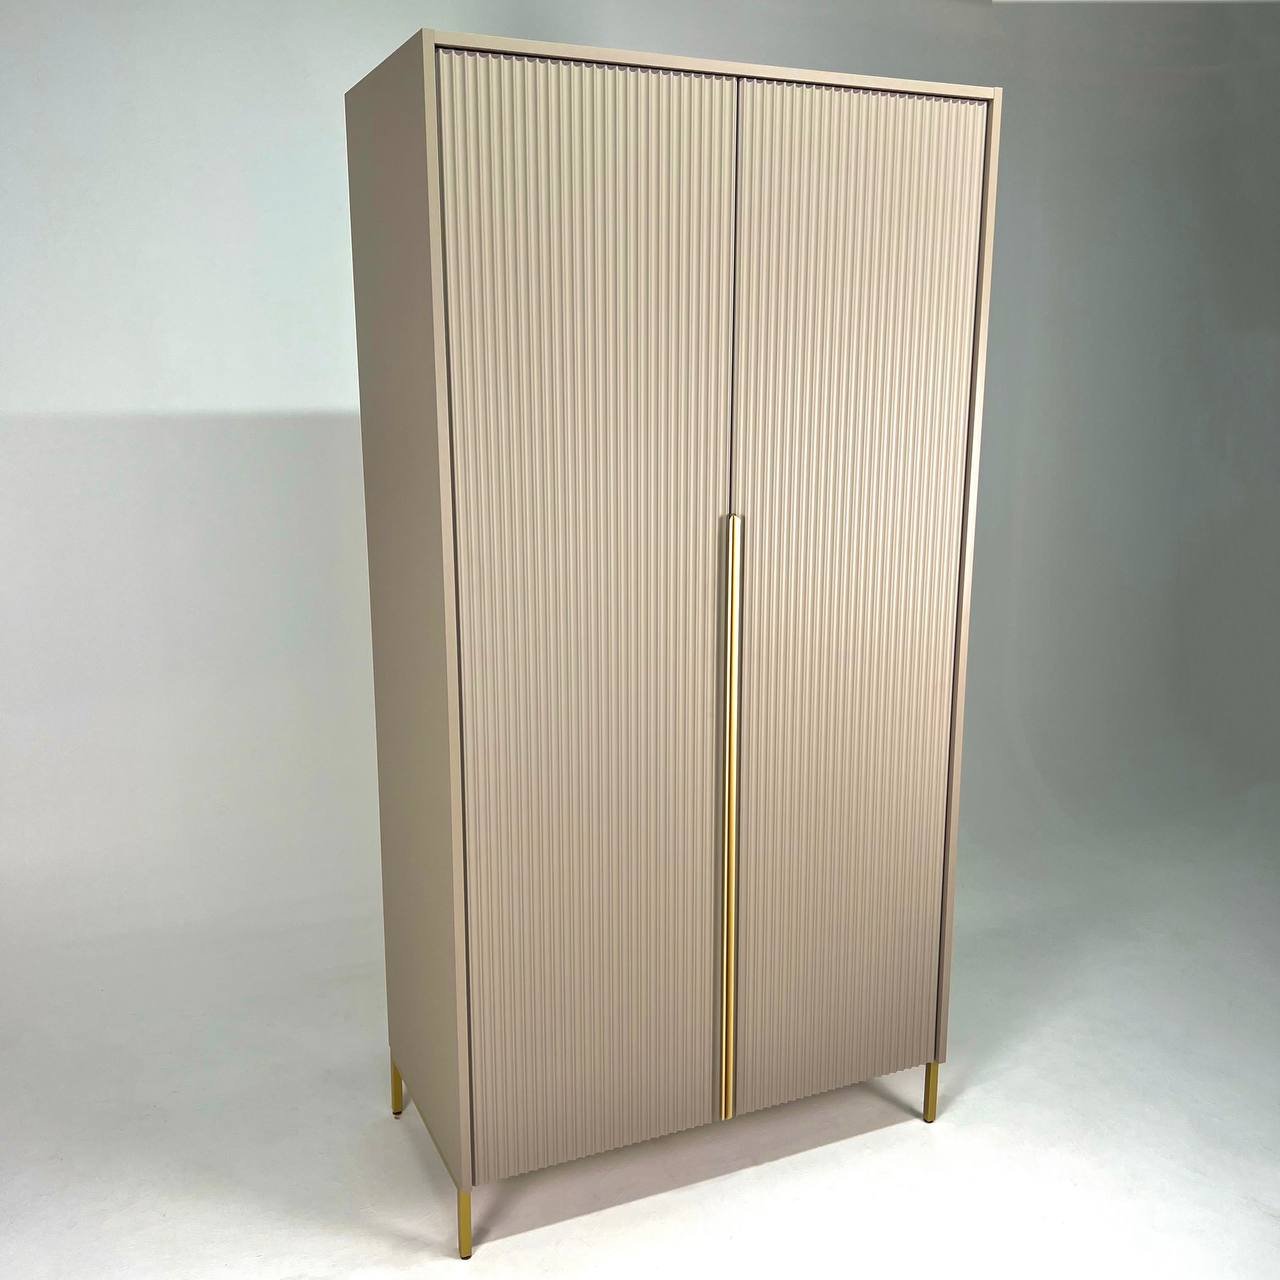
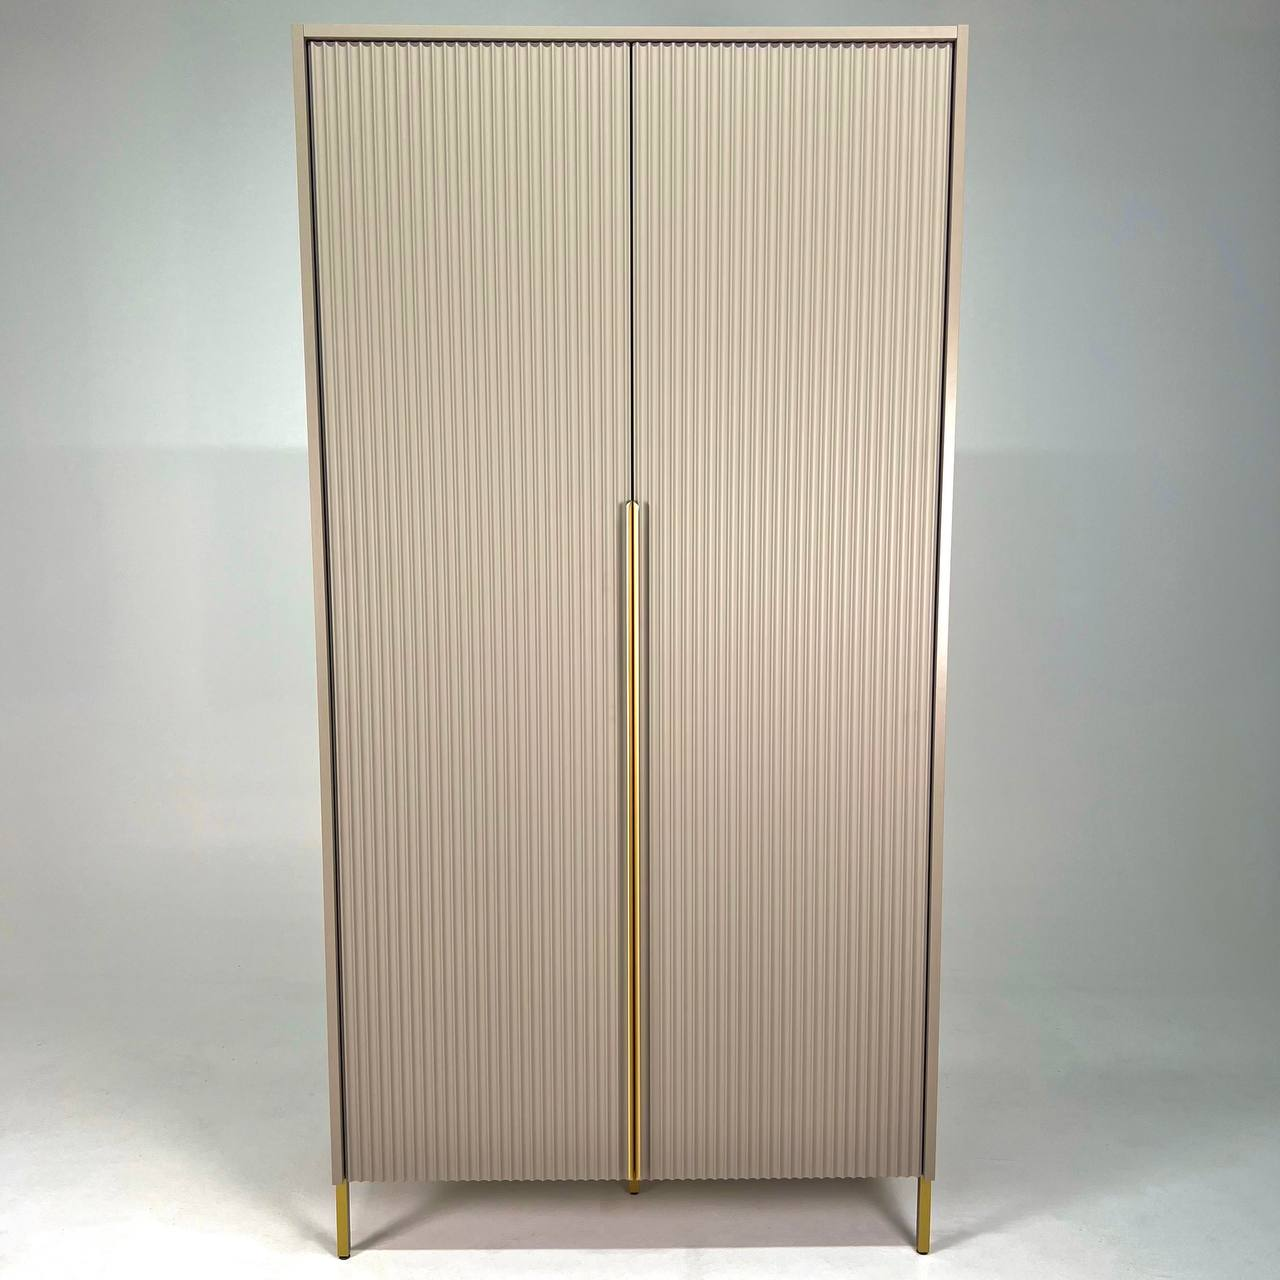
New series Orlean

diff --git a/src/components/Products/orleanProducts.js b/src/components/Products/orleanProducts.js
@@ -1,0 +1,66 @@
+// #region Tumby
+import tumba1 from './imgO/tumby/tumba1.jpg';
+import tumba2 from './imgO/tumby/tumba2.jpg';
+import tumba3 from './imgO/tumby/tumba3.jpg';
+import tumba4 from './imgO/tumby/tumba4.jpg';
+import tumba5 from './imgO/tumby/tumba5.jpg';
+import tumba6 from './imgO/tumby/tumba6.jpg';
+import tumba7 from './imgO/tumby/tumba7.jpg';
+import tumba8 from './imgO/tumby/tumba8.jpg';
+import tumba9 from './imgO/tumby/tumba9.jpg';
+import tumba10 from './imgO/tumby/tumba10.jpg';
+import tumba11 from './imgO/tumby/tumba11.jpg';
+import tumba12 from './imgO/tumby/tumba12.jpg';
+// #endregion
+
+// #region Komody
+import komod1 from './imgO/komody/komod1.jpg';
+import komod2 from './imgO/komody/komod2.jpg';
+import komod3 from './imgO/komody/komod3.jpg';
+import komod4 from './imgO/komody/komod4.jpg';
+import komod5 from './imgO/komody/komod5.jpg';
+import komod6 from './imgO/komody/komod6.jpg';
+import komod7 from './imgO/komody/komod7.jpg';
+import komod8 from './imgO/komody/komod8.jpg';
+import komod9 from './imgO/komody/komod9.jpg';
+
+// #endregion
+
+import './Products.css';
+
+const orleanProducts = [
+  {
+    id: 41,
+    name: 'Тумба приліжкова "Орлеан"',
+    img: tumba1,
+    additionalImages: [tumba2, tumba3, tumba4, tumba5, tumba6, tumba7, tumba8, tumba9, tumba10, tumba11, tumba12,],
+    category: 'Приліжкові тумби',
+    categoryRu: 'Nightstands',
+    features: [
+      'Каркас: Метал',
+      'Матеріал: ДСП вищої категорії',
+      'Розміри: Ш 500 х В 471 х Г410',
+      'Колір: "Глиняний сiрий", "Шиншила"'
+    ]
+  },
+  {
+    id: 42,
+    name: 'Комод "Орлеан"',
+    img: komod1,
+    additionalImages: [komod2, komod3, komod4, komod5, komod6, komod7, komod8, komod9],
+    category: 'Комоди',
+    categoryRu: 'Dressers',
+    features: [
+      'Каркас: Метал',
+      'Матеріал: ДСП вищої категорії',
+      'Розміри: Ш 900 х В 880 х Г508',
+      'Колір: "Глиняний сiрий", "Шиншила"'
+    ]
+  },
+
+
+  
+  
+];
+
+export default orleanProducts;

diff --git a/src/components/ProductDetails/ProductDetails.js b/src/components/ProductDetails/ProductDetails.js
@@ -10,15 +10,16 @@ import bristolProducts from '../Products/bristolProducts';
 import torontoProducts from '../Products/torontoProducts';
 import kelnProducts from '../Products/kelnProducts';
 import kelnOnLegsProducts from '../Products/kelnOnLegsProducts';
+import orleanProducts from '../Products/orleanProducts';
 import { BasketContext } from '../../context/BasketContext';
-import { useTranslation } from 'react-i18next'; // імпорт useTranslation
+import { useTranslation } from 'react-i18next';
 import './ProductDetails.css';
 
 const ProductDetails = () => {
   const { productId } = useParams();
   const { cart, addToCart } = useContext(BasketContext);
   const [isBasketModalOpen, setBasketModalOpen] = React.useState(false);
-  const { t } = useTranslation(); // використання useTranslation
+  const { t } = useTranslation();
 
   const allProducts = [
     ...products,
@@ -26,6 +27,7 @@ const ProductDetails = () => {
     ...torontoProducts,
     ...kelnProducts,
     ...kelnOnLegsProducts,
+    ...orleanProducts,
   ];
 
   const product = allProducts.find((p) => p.id === parseInt(productId));
@@ -44,7 +46,7 @@ const ProductDetails = () => {
     return (
       <div>
         <Header onOpenBasket={() => setBasketModalOpen(true)} />
-        <h1>{t('productNotFound')}</h1> {/* Перекладений текст */}
+        <h1>{t('productNotFound')}</h1>
         <Footer />
       </div>
     );
@@ -82,11 +84,11 @@ const ProductDetails = () => {
                 className="order-button" 
                 onClick={handleAddToCart}
               >
-                {t('addToCart')} {}
+                {t('addToCart')}
               </button>
             </div>
             <div className="product-features">
-              <h2>{t('features')}</h2> {}
+              <h2>{t('features')}</h2>
               {product.features.map((feature, index) => (
                 <p key={index}>{feature}</p>
               ))}

diff --git a/src/routes.js b/src/routes.js
@@ -1,5 +1,5 @@
 import React from 'react';
-import { createBrowserRouter, Link } from 'react-router-dom';
+import { createBrowserRouter } from 'react-router-dom';
 import Home from './components/Home';
 import Bed from './components/Bed/Bed';
 import Furniture from './components/Furniture/Furniture';
@@ -7,6 +7,7 @@ import Bristol from './components/Furniture/Bristol';
 import Toronto from './components/Furniture/Toronto';
 import Keln from './components/Furniture/Keln';
 import KelnOnLegs from './components/Furniture/KelnOnLegs';
+import Orlean from './components/Furniture/Orlean'; // Імпорт компонента Orlean
 import ErrorPage from './components/ErrorPage/ErrorPage';
 import ProductDetails from './components/ProductDetails/ProductDetails';
 import ScrollToTop from './ScrollToTop';
@@ -69,6 +70,15 @@ const router = createBrowserRouter([
     ),
   },
   {
+    path: "/furniture/orlean", // Додано маршрут для Orlean
+    element: (
+      <>
+        <ScrollToTop />
+        <Orlean />
+      </>
+    ),
+  },
+  {
     path: "/furniture",
     element: (
       <>
@@ -115,6 +125,15 @@ const router = createBrowserRouter([
   },
   {
     path: "/kelnOnLegs/product/:productId",
+    element: (
+      <>
+        <ScrollToTop />
+        <ProductDetails />
+      </>
+    ),
+  },
+  {
+    path: "/orlean/product/:productId", // Додано маршрут для деталей продукту Orlean
     element: (
       <>
         <ScrollToTop />

diff --git a/src/components/Furniture/Orlean.js b/src/components/Furniture/Orlean.js
@@ -1,0 +1,31 @@
+import React from 'react';
+import { Link } from 'react-router-dom';
+import { useTranslation } from 'react-i18next';
+import Header from '../Header/Header';
+import Footer from '../Footer/Footer';
+import orleanProducts from '../Products/orleanProducts';
+
+const Orlean = () => {
+  const { t } = useTranslation();
+  
+  return (
+    <div>
+      <Header />
+      <div className="product-grid">
+        {orleanProducts.map(product => (
+          <Link key={product.id} to={`/orlean/product/${product.id}`} className="product-link">
+            <div className="product-block">
+              <img src={product.img} alt={product.name} />
+              <div className="product-name">{product.name}</div>
+              <div className="product-price">{product.price}</div>
+              <button>{t('details')}</button>
+            </div>
+          </Link>
+        ))}
+      </div>
+      <Footer />
+    </div>
+  );
+};
+
+export default Orlean;

diff --git a/src/components/Furniture/Furniture.js b/src/components/Furniture/Furniture.js
@@ -10,6 +10,7 @@ import BristolImage from './img/bristol.jpg';
 import TorontoImage from './img/toronto.jpg';
 import KelnImage from './img/keln.jpg';
 import KelnOnLegsImage from './img/kelnOnLegs.jpg';
+import OrleanImage from './img/orlean.jpg';
 import allProducts from '../Products/allProducts';
 
 const Furniture = () => {
@@ -31,8 +32,10 @@ const Furniture = () => {
     { name: t('bristol'), path: '/furniture/bristol', image: BristolImage },
     { name: t('toronto'), path: '/furniture/toronto', image: TorontoImage },
     { name: t('keln'), path: '/furniture/keln', image: KelnImage },
-    { name: t('kelnOnLegs'), path: '/furniture/kelnOnLegs', image: KelnOnLegsImage }
+    { name: t('kelnOnLegs'), path: '/furniture/kelnOnLegs', image: KelnOnLegsImage },
+    { name: t('orlean'), path: '/furniture/orlean', image: OrleanImage }
   ];
+  
 
   const toggleFilter = () => {
     setIsFilterOpen(!isFilterOpen);

diff --git a/src/components/Products/allProducts.js b/src/components/Products/allProducts.js
@@ -2,12 +2,14 @@ import bristolProducts from './bristolProducts';
 import torontoProducts from './torontoProducts';
 import kelnProducts from './kelnProducts';
 import kelnOnLegsProducts from './kelnOnLegsProducts';
+import orleanProducts from './orleanProducts';
 
 const allProducts = [
   ...bristolProducts,
   ...torontoProducts,
   ...kelnProducts,
   ...kelnOnLegsProducts,
+  ...orleanProducts,
 ];
 
 export default allProducts;

diff --git a/public/index.html b/public/index.html
@@ -3,7 +3,7 @@
   <head>
     <meta charset="utf-8" />
     <meta name="viewport" content="width=device-width, initial-scale=1" />
-    <title>React App</title>
+    <title>Ramon Meble</title>
   </head>
 
   <body>
